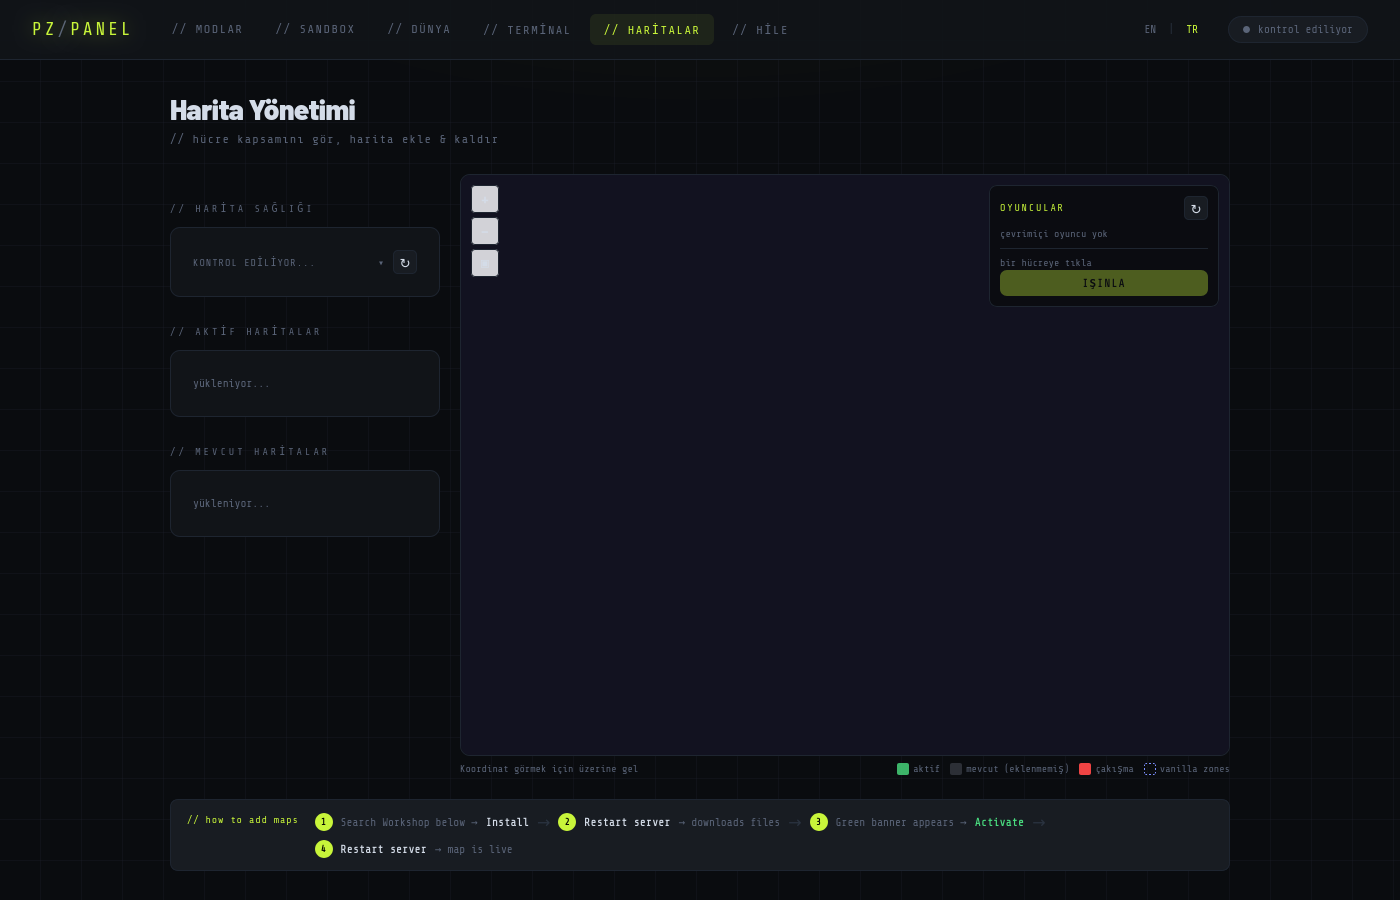
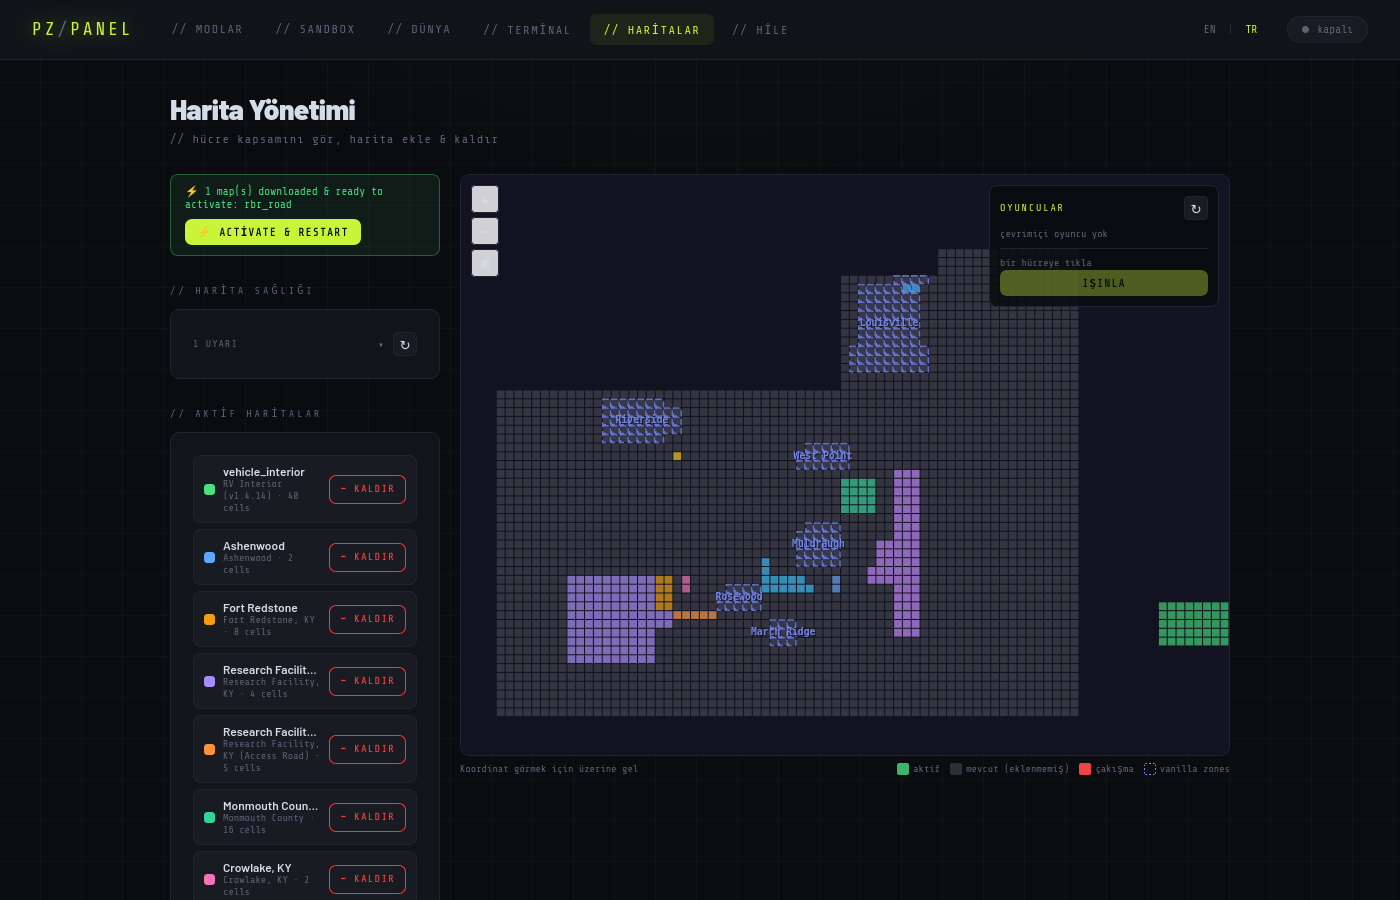
Draw base map (Muldraugh, KY) as white cells on map canvas
Previously the base map was skipped entirely — only mod maps and
hardcoded vanilla town outlines were visible. Now all 2841 Muldraugh
cells are drawn as a subtle white layer underneath mod map colors,
making the full Kentucky map shape visible at all zoom levels.

Also updated fitCells to include the base map in the auto-fit so
the camera frames the whole map correctly on load.

diff --git a/templates/maps.html b/templates/maps.html
@@ -504,10 +504,8 @@ function vanillaZoneCells() {
 function visibleFitCells() {
   if (!_mapData) return vanillaZoneCells();
   const base = baseMapId();
-  const mapCells = _mapData.maps
-    .filter(m => m.id !== base)
-    .flatMap(m => m.cells);
-  return mapCells.concat(vanillaZoneCells());
+  const mapCells = _mapData.maps.flatMap(m => m.cells);
+  return mapCells.length ? mapCells : vanillaZoneCells();
 }
 
 function draw() {
@@ -527,6 +525,17 @@ function draw() {
 
   const sz  = zoom;
   const gap = sz >= 4 ? Math.max(0.5, sz * 0.06) : 0;
+
+  // Base map (Muldraugh, KY) — white cells as the map background
+  const baseMapEntry = _mapData.maps.find(m => m.id === baseMapId());
+  if (baseMapEntry) {
+    ctx.fillStyle = 'rgba(255,255,255,0.15)';
+    for (const [cx, cy] of baseMapEntry.cells) {
+      if (cx < wx0 || cx > wx1 || cy < wy0 || cy > wy1) continue;
+      const [sx, sy] = w2s(cx, cy);
+      ctx.fillRect(sx + gap, sy + gap, sz - gap * 2, sz - gap * 2);
+    }
+  }
 
   // Available maps — dim gray
   for (const m of _mapData.maps) {
